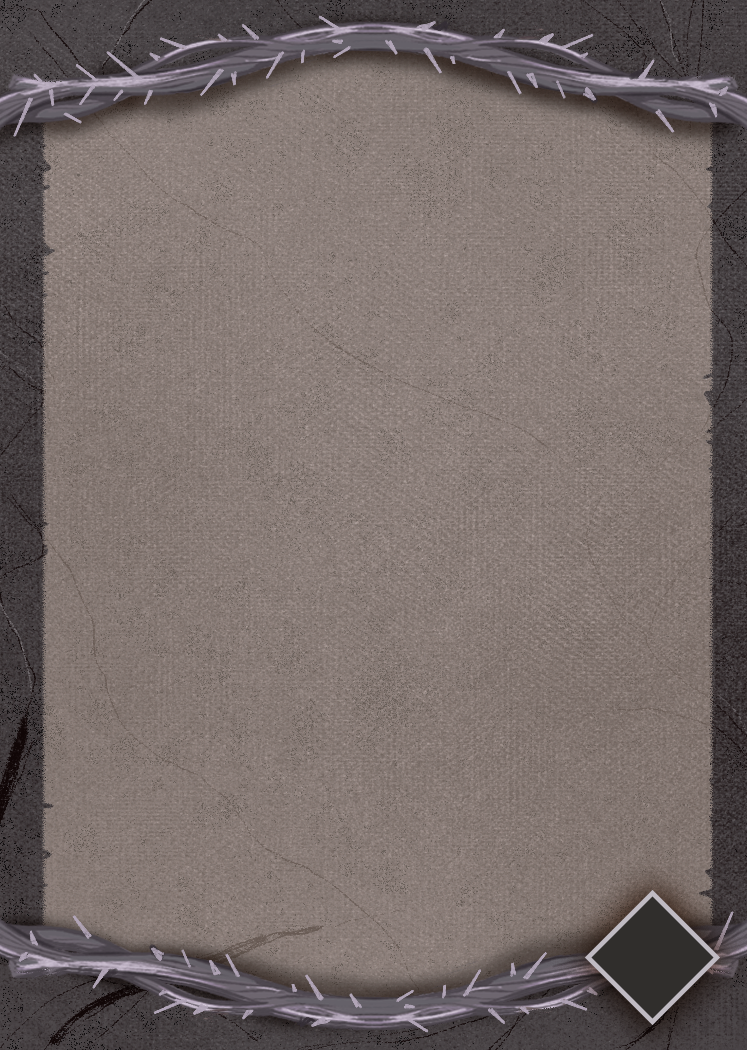
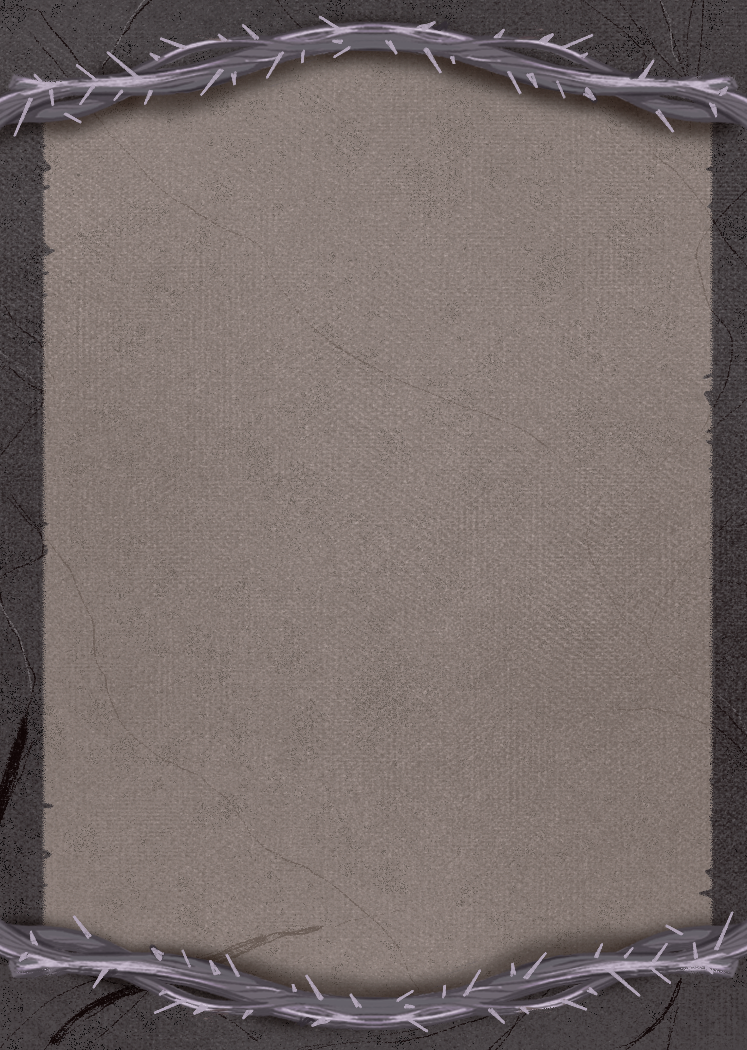
Make set diamond and dividing line elements seperate from background

Changed region(s): [[0.7697, 0.8229, 0.9853, 0.9752]]

diff --git a/gen.js b/gen.js
@@ -5,11 +5,15 @@ const { parse } = require("csv-parse/sync");
 //////////////////////////////////////////////////////
 // CONFIGURATION 
 
-const is_nice = false // TODO: Fix Encounter icons for nice mode
+const is_nice = true // TODO: Fix Encounter icons for nice mode
 const generate_gives_from_costs = true
 
 const TEMPLATE_HEROES = "./data/template_hero.html"
 const TEMPLATE_ENCOUNTER = "./data/template_encounter.html"
+
+const HERO_DIAMOND = "../assets/hero_bg_diamond.png"
+const HERO_DIVIDER = "../assets/hero_bg_divider.png"
+const ENCOUNTER_DIAMOND = "../assets/encounter_bg_diamond.png"
 
 const ICON_BERRIES = { emoji: "🍇", image: "../assets/berry.png", image_small: "../assets/berry-small.png",  color: "border-berries", text: "Berries" }
 const ICON_STICKS  = { emoji: "🪵", image: "../assets/stick.png", image_small: "../assets/stick-small.png",  color: "border-sticks",  text: "Sticks" }
@@ -123,7 +127,8 @@ get_resource_icon(icon_key)
 function
 get_deck_icon(deck_spec)
 {
-  return is_nice ? `<img class="deck_icon" src="${deck_spec.image}" />` : deck_spec.emoji
+  const diamond = deck_spec.is_hero ? HERO_DIAMOND : ENCOUNTER_DIAMOND
+  return is_nice ? `<img class="deck_icon" src="${deck_spec.image}" /><img class="deck diamond" src="${diamond}">` : deck_spec.emoji
 }
 
 function 
@@ -171,6 +176,8 @@ insert_gives(insert, gives, spiced)
   gives_text = (spiced) ? ICON_SPICE.text + ": " + gives_text.join(" or ") : gives_text.join(" or ")
   gives_icons = `<div class="icon ${color}">${gives_icons}</div>`
 
+  const divider = is_nice ? `<img class="divider" src = "${HERO_DIVIDER}" />` : ""
+  insert = insert.replace("%Gives Divider%", divider)
   insert = insert.replace("%Gives Icon%", gives_icons)
   insert = insert.replace("%Gives Name%", gives_text)
   return insert

diff --git a/data/template_nice.css b/data/template_nice.css
@@ -203,26 +203,44 @@ html {
       margin-top: 6px;
     }
 
-  .card .deck
+  .encounter .deck
   {
     position: absolute;
     right: 21px;
     bottom: 18px;
   }
-    .card .deck img
+
+  .hero .deck
+  {
+    position: absolute;
+    top: 5%;
+    left: 80%;
+  }
+    .hero .deck .deck_icon
     {
+      position: absolute;
       object-fit: contain;
       width: 20px;
       height: 20px;
+      transform: rotate(180deg);
+      z-index: 200;
     }
 
-    .hero .deck_name {
-      display: none;
-    }
-
-    .hero .deck img {
+    .hero .deck .diamond
+    {
+      z-index: 1;
+      position: absolute;
+      object-fit: contain;
+      left: -10px;
+      top: -10px;
+      width: 40px;
+      height: 40px;
       transform: rotate(180deg);
     }
+
+  .hero .deck_name {
+    display: none;
+  }
     
     .encounter .deck
     {
@@ -372,4 +390,11 @@ p
     width: 50%;
     left: 50%;
     text-align: right;
+  }
+
+  .divider {
+    position: absolute;
+    width: 100%;
+    height: 1%;
+    top: 63%
   }

diff --git a/data/template_hero.html b/data/template_hero.html
@@ -19,6 +19,7 @@
     </div>
   </div>
   <div class="resource">
+    %Gives Divider%
     <div class="name">%Gives Name%</div>
     %Gives Icon%
   </div>
